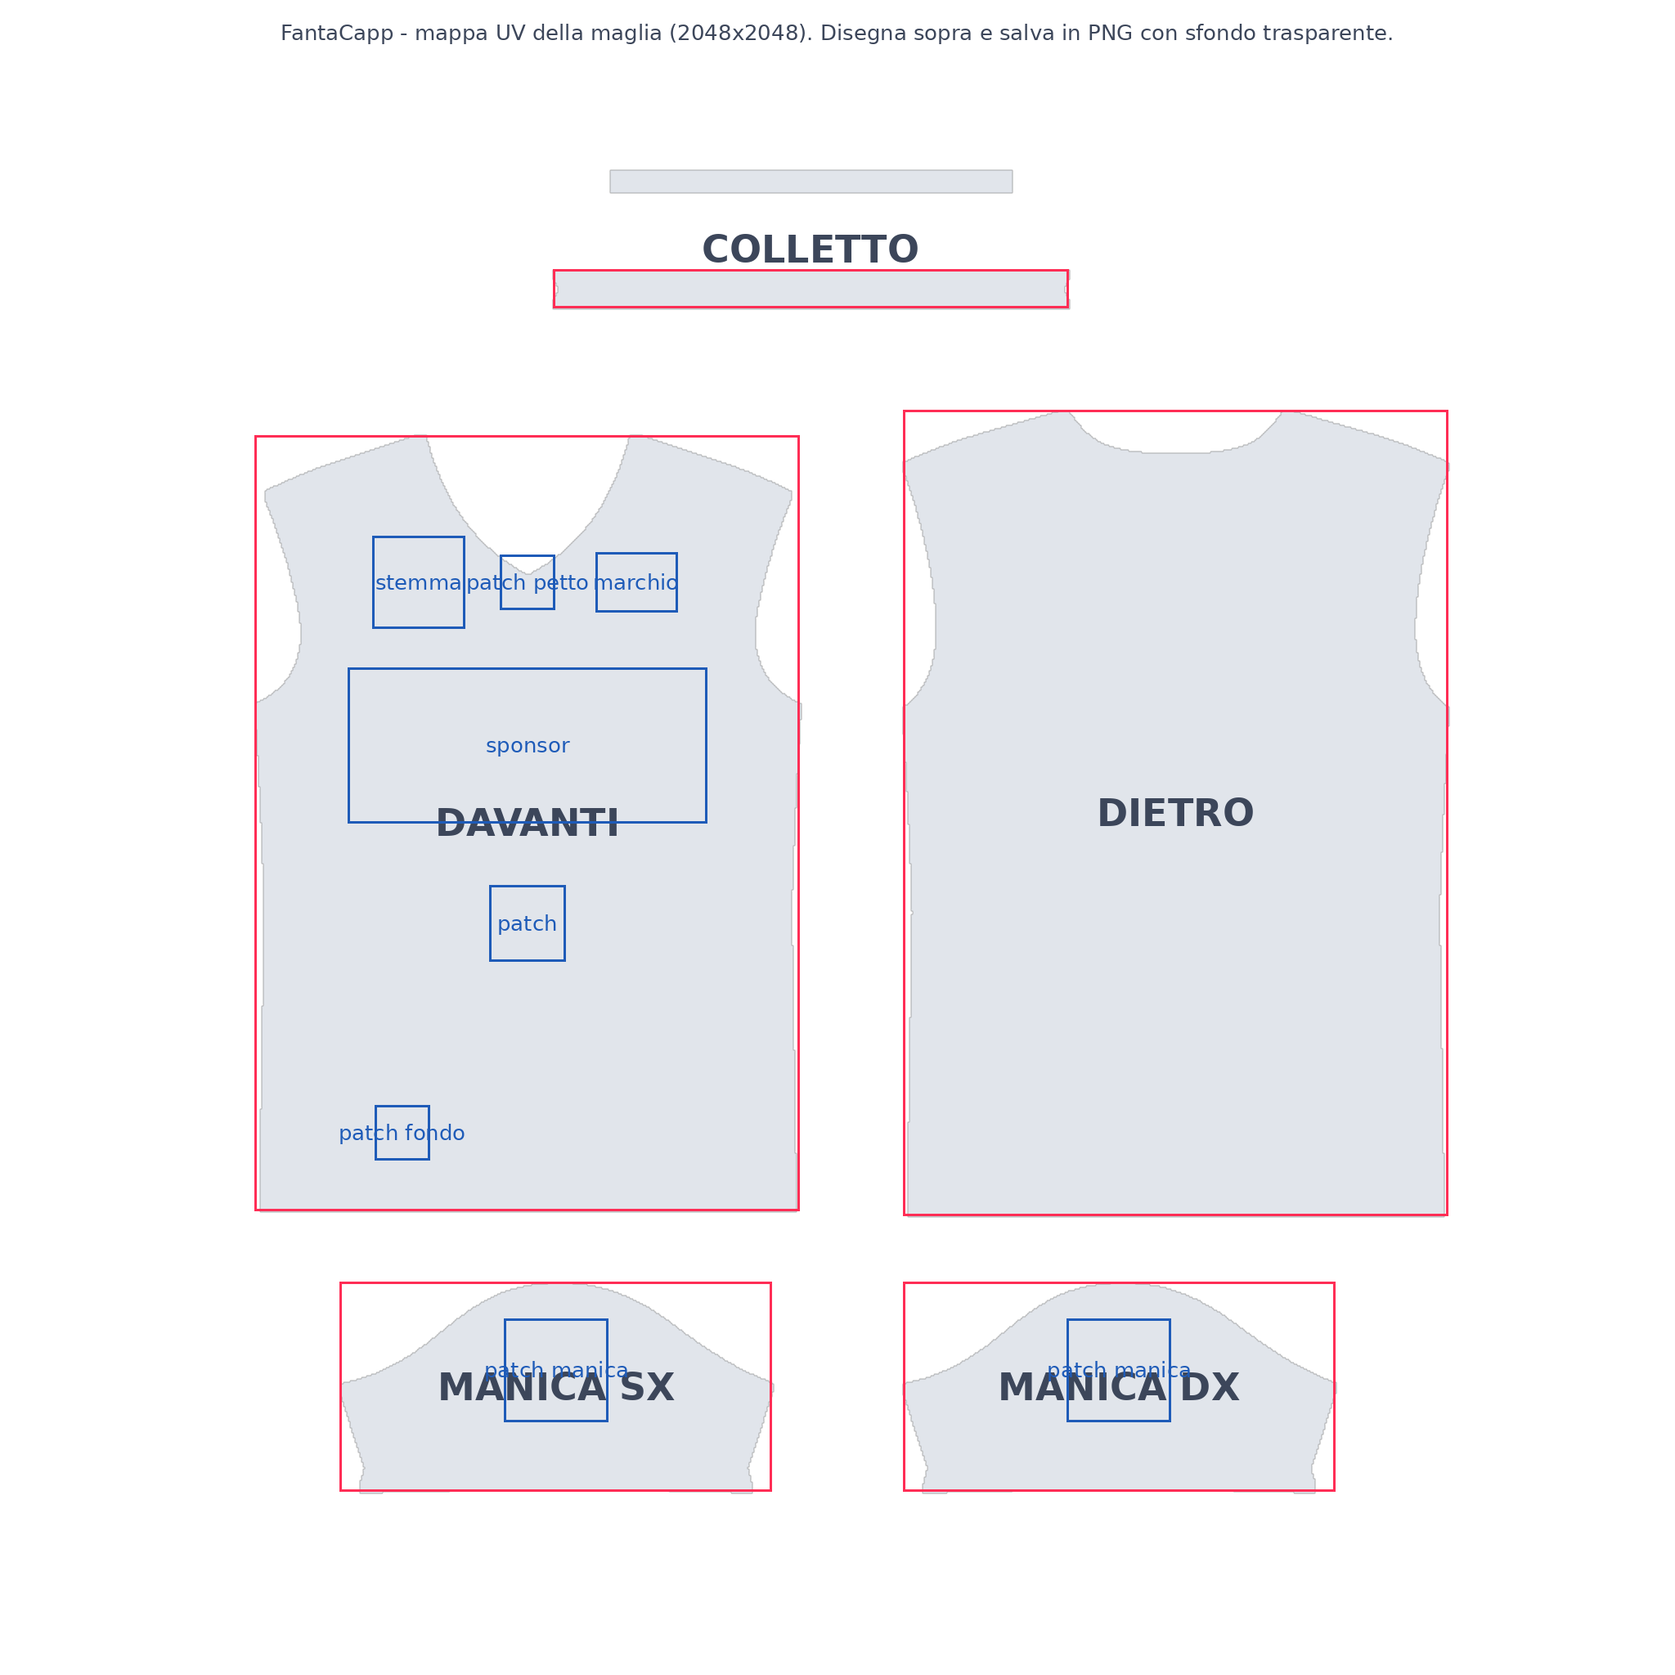
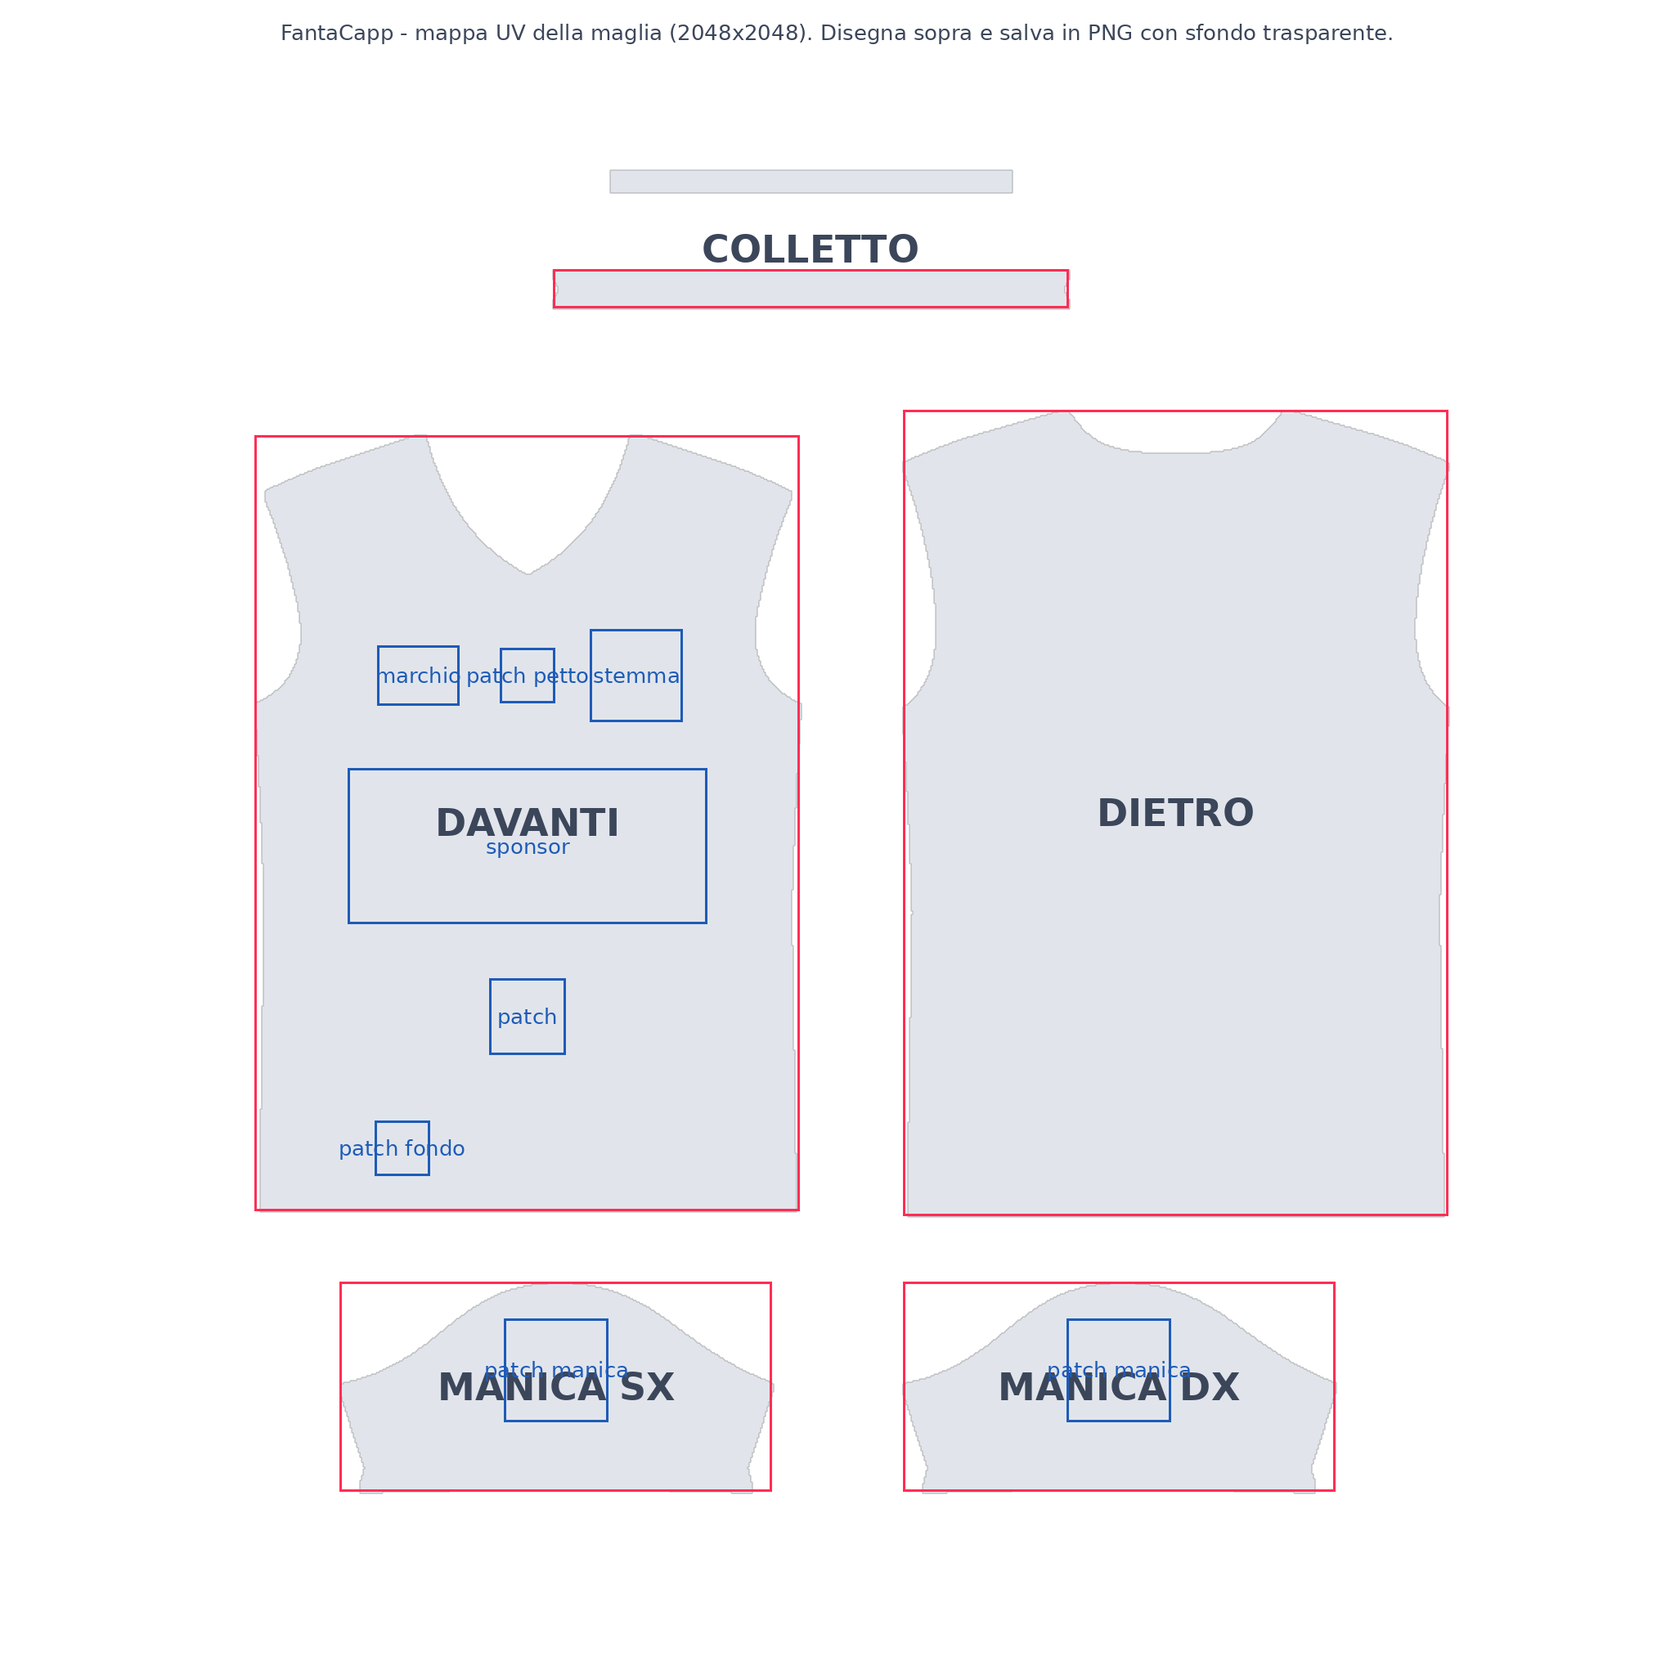
Divisa 3D: forme del colletto, loghi più in basso, marchio e stemma invertiti
- Nuovo components/kitShapes.js: forme del colletto ottenute deformando la
  geometria del modello vicino al collo (scollo a V, V profondo, girocollo,
  girocollo ampio, serafino con abbottonatura, coreana, collo alto con la
  fascia del colletto allungata). Una variante del modello per forma, in cache.
- Editor: FASE 1 con 'Forma del colletto' (miniature 3D) e 'Rifinitura del
  colletto'. Nuove divise con girocollo; quelle salvate prima restano a V
  (i colletti del primo editor sono convertiti nella forma più vicina).
- Stemma, marchio tecnico, sponsor e patch spostati più in basso sul petto;
  marchio tecnico a sinistra e stemma a destra guardando la maglia.
- Modello UV del Patron aggiornato con le nuove posizioni; inquadratura con
  più margine per i colli alti.

Claude-Session: https://claude.ai/code/session_018vuC1pFgCaehzZuDJwNqrk

diff --git a/js/components/Kit3D.js b/js/components/Kit3D.js
@@ -1,4 +1,5 @@
-import { paintKitTexture, KIT3D_FILES } from './KitRenderer.js';
+import { paintKitTexture, normalizeKit, KIT3D_FILES } from './KitRenderer.js';
+import { deformPoint, isDeformed } from './kitShapes.js';
 
 /**
  * Maglia 3D (three.js, in vendor/three): il modello in icons/kit3d/shirt.glb viene "vestito"
@@ -34,6 +35,49 @@ function loadModel() {
   return modelJob;
 }
 
+/** Pezzo del modello a cui appartiene una mesh (nome del nodo glTF). */
+function partOf(o) {
+  const n = `${o.name}|${o.parent ? o.parent.name : ''}`;
+  if (/(^|\|)42(_|\||$)/.test(n)) return 'front';
+  if (/Pattern2D_3805002/.test(n)) return 'collar';
+  return '';
+}
+
+/** Modello con la forma di colletto richiesta (geometria deformata, una volta per forma). */
+const variants = new Map();
+function loadVariant(shape) {
+  const key = isDeformed(shape) ? shape : 'v';
+  if (!variants.has(key)) {
+    variants.set(key, Promise.all([loadLib(), loadModel()]).then(([L, base]) => {
+      if (key === 'v') return base;
+      const { THREE } = L;
+      const model = base.clone(true);
+      model.updateMatrixWorld(true);
+      const v = new THREE.Vector3(), inv = new THREE.Matrix4();
+      model.traverse(o => {
+        if (!o.isMesh) return;
+        const part = partOf(o);
+        if (!part) return;
+        const g = o.geometry.clone();
+        const src = g.getAttribute('position');
+        const out = new Float32Array(src.count * 3);
+        inv.copy(o.matrixWorld).invert();
+        for (let i = 0; i < src.count; i++) {
+          v.fromBufferAttribute(src, i).applyMatrix4(o.matrixWorld);
+          const p = deformPoint(key, part, [v.x, v.y, v.z]);
+          v.set(p[0], p[1], p[2]).applyMatrix4(inv);
+          out[i * 3] = v.x; out[i * 3 + 1] = v.y; out[i * 3 + 2] = v.z;
+        }
+        g.setAttribute('position', new THREE.BufferAttribute(out, 3));
+        g.computeBoundingBox(); g.computeBoundingSphere();
+        o.geometry = g;
+      });
+      return model;
+    }));
+  }
+  return variants.get(key);
+}
+
 class Stage {
   constructor(L, model, canvas, { interactive = false, width = 600, height = 640 } = {}) {
     const { THREE } = L;
@@ -53,25 +97,17 @@ class Stage {
     key.position.set(2.5, 3, 2);
     this.scene.add(key);
 
-    // copia del modello con materiali propri (la texture cambia per ogni maglia)
-    this.model = model.clone(true);
     this.texture = new THREE.CanvasTexture(document.createElement('canvas'));
     this.texture.flipY = false;
     this.texture.colorSpace = THREE.SRGBColorSpace;
     this.texture.anisotropy = this.renderer.capabilities.getMaxAnisotropy();
-    this.model.traverse(o => {
-      if (!o.isMesh) return;
-      o.material = o.material.clone();
-      o.material.metalness = 0;
-      if (o.material.name === 'shirt_outer') { o.material.map = this.texture; o.material.needsUpdate = true; }
-    });
-    this.scene.add(this.model);
+    this.setModel(model);
 
     const box = new THREE.Box3().setFromObject(this.model);
     this.center = box.getCenter(new THREE.Vector3());
     const size = box.getSize(new THREE.Vector3());
     this.camera = new THREE.PerspectiveCamera(22, width / height, 0.01, 50);
-    this.dist = Math.max(size.y, size.x * height / width) / 2 / Math.tan(THREE.MathUtils.degToRad(11)) * 1.06;
+    this.dist = Math.max(size.y, size.x * height / width) / 2 / Math.tan(THREE.MathUtils.degToRad(11)) * 1.13; // margine anche per i colli alti
     this.setView(0);
 
     if (interactive) {
@@ -84,6 +120,21 @@ class Stage {
       this.controls = c;
       this.setView(0); // i controlli appena creati puntano all'origine: riallineo sulla maglia
     }
+  }
+
+  /** Copia del modello (forma del colletto) con materiali propri: la texture cambia per ogni maglia. */
+  setModel(model) {
+    if (this.source === model) return;
+    if (this.model) this.scene.remove(this.model);
+    this.source = model;
+    this.model = model.clone(true);
+    this.model.traverse(o => {
+      if (!o.isMesh) return;
+      o.material = o.material.clone();
+      o.material.metalness = 0;
+      if (o.material.name === 'shirt_outer') { o.material.map = this.texture; o.material.needsUpdate = true; }
+    });
+    this.scene.add(this.model);
   }
 
   setView(yawDeg) {
@@ -143,8 +194,9 @@ export function createKitViewer(container) {
     ready,
     async update(kit, opts = {}) {
       const my = ++token;
-      const [st, tex] = await Promise.all([ready, paintKitTexture(kit, { ...opts, size: opts.size || 2048 })]);
+      const [st, tex, model] = await Promise.all([ready, paintKitTexture(kit, { ...opts, size: opts.size || 2048 }), loadVariant(normalizeKit(kit).collarShape)]);
       if (!st || disposed || my !== token) return;
+      st.setModel(model);
       st.setTexture(tex);
       st.render();
       requestAnimationFrame(() => { if (!disposed) st.render(); });
@@ -180,7 +232,11 @@ export function renderKitImage(kit, opts = {}) {
     const [L, model] = await Promise.all([loadLib(), loadModel()]);
     if (!shot) shot = new Stage(L, model, document.createElement('canvas'), { width, height });
     shot.resize(width, height);
-    const tex = await paintKitTexture(kit, { crestUrl: opts.crestUrl, size: opts.textureSize || 2048, plain: opts.plain });
+    const [tex, variant] = await Promise.all([
+      paintKitTexture(kit, { crestUrl: opts.crestUrl, size: opts.textureSize || 2048, plain: opts.plain }),
+      loadVariant(normalizeKit(kit).collarShape)
+    ]);
+    shot.setModel(variant);
     shot.setTexture(tex);
     shot.setView(opts.view === 'back' ? 180 : 0);
     shot.render();

diff --git a/js/components/KitRenderer.js b/js/components/KitRenderer.js
@@ -1,11 +1,15 @@
 import { getPngPatterns, getPngBrands } from '../services/kitAssets.js';
 import { getCutout } from '../services/imageCutout.js';
+import { COLLAR_SHAPES } from './kitShapes.js';
+
+export { COLLAR_SHAPES };
 
 /**
  * Divisa della squadra: dati e pittura della texture UV della maglia 3D (vedi components/Kit3D.js).
  * La divisa è salvata in teams/{id}/kit:
  * {
- *   collar, cuffs, sleeveDeco,                              // stile di colletto, polsini, decorazioni maniche
+ *   collarShape,                                            // forma del colletto (geometria 3D, vedi kitShapes.js)
+ *   collar, cuffs, sleeveDeco,                              // rifinitura del colletto, polsini, decorazioni maniche
  *   colors: { base, sleeves, collar, cuffs, trim },
  *   layers: [{ type, color, opacity, scale, flipX, flipY, zone }],  // type: disegno integrato o 'png:<id>'; zone: body | all | sleeves
  *   brand: { id, color, url, mono },                        // id: marchio integrato, 'png:<id>' (dal Patron) o 'custom'
@@ -172,7 +176,7 @@ export const SLEEVE_DECO = [
 
 export function defaultKit() {
   return {
-    collar: 'plain', cuffs: 'band', sleeveDeco: 'none',
+    collarShape: 'crew', collar: 'plain', cuffs: 'band', sleeveDeco: 'none',
     colors: { base: '#1e5bb8', sleeves: '#1e5bb8', collar: '#ffffff', cuffs: '#ffffff', trim: '#ffffff' },
     layers: [],
     brand: { id: 'nike', color: '#ffffff', url: '', mono: false },
@@ -182,12 +186,17 @@ export function defaultKit() {
   };
 }
 
+// colletti del primo editor (disegno SVG) → forma 3D più vicina
+const OLD_COLLARS = { crew: 'crew', doublecrew: 'crew', v: 'v', wrap: 'v', laces: 'v', deepv: 'deepv', polo: 'henley', polobtn: 'henley', henley: 'henley', mandarin: 'mandarin' };
+
 /** Completa una divisa letta dal DB (anche dei formati precedenti) con i valori mancanti. */
 export function normalizeKit(raw) {
   const d = defaultKit();
   const k = raw && typeof raw === 'object' ? raw : {};
   const toArr = (v) => Array.isArray(v) ? v.filter(Boolean) : (v && typeof v === 'object' ? Object.values(v).filter(Boolean) : []);
   return {
+    // le divise salvate prima delle forme del colletto avevano lo scollo a V
+    collarShape: COLLAR_SHAPES.some(c => c.id === k.collarShape) ? k.collarShape : (OLD_COLLARS[k.collar] || (k.collar ? 'v' : d.collarShape)),
     collar: COLLARS.some(c => c.id === k.collar) ? k.collar : d.collar,
     cuffs: CUFFS.some(c => c.id === k.cuffs) ? k.cuffs : d.cuffs,
     sleeveDeco: SLEEVE_DECO.some(c => c.id === k.sleeveDeco) ? k.sleeveDeco : d.sleeveDeco,
@@ -221,14 +230,15 @@ export const UV = {
   collar:  { x: .3301, y: .1611, w: .3076, h: .0225 }
 };
 
-// Posizioni sul pezzo (0..1 nel riquadro del pezzo): s = lato rispetto alla larghezza del pezzo
+// Posizioni sul pezzo (0..1 nel riquadro del pezzo): s = lato rispetto alla larghezza del pezzo.
+// Guardando la maglia: marchio tecnico in alto a sinistra, stemma della squadra in alto a destra (sul cuore).
 export const ANCHORS = {
-  crest:   { part: 'front', x: .30, y: .19, s: .17 },
-  brand:   { part: 'front', x: .70, y: .19, s: .15 },
-  sponsor: { part: 'front', x: .50, y: .40, w: .66, h: .20 },
-  chest:   { part: 'front', x: .50, y: .19, s: .10 },
-  belly:   { part: 'front', x: .50, y: .63, s: .14 },
-  hem:     { part: 'front', x: .27, y: .90, s: .10 },
+  crest:   { part: 'front', x: .70, y: .31, s: .17 },
+  brand:   { part: 'front', x: .30, y: .31, s: .15 },
+  sponsor: { part: 'front', x: .50, y: .53, w: .66, h: .20 },
+  chest:   { part: 'front', x: .50, y: .31, s: .10 },
+  belly:   { part: 'front', x: .50, y: .75, s: .14 },
+  hem:     { part: 'front', x: .27, y: .92, s: .10 },
   sleeveL: { part: 'sleeveL', x: .50, y: .42, s: .24 },
   sleeveR: { part: 'sleeveR', x: .50, y: .42, s: .24 }
 };
@@ -480,6 +490,21 @@ export async function paintKitTexture(rawKit, opts = {}) {
       pts.forEach(([u, v], i) => (i ? x.lineTo(u * S, v * S + lw / 2) : x.moveTo(u * S, v * S + lw / 2)));
       x.stroke();
     }));
+  }
+
+  // abbottonatura del serafino: listino sotto lo scollo con tre bottoni
+  if (k.collarShape === 'henley' && mask && mask.neck.front && mask.neck.front.length) {
+    const tip = mask.neck.front.reduce((a, b) => (b[1] > a[1] ? b : a));
+    const r = R('front');
+    const cx = r.x + r.w / 2, top = tip[1] * S, len = r.h * .17, w = r.w * .07;
+    inPart('front', (x) => {
+      x.fillStyle = safeColor(c.collar); x.fillRect(cx - w / 2, top - S * .01, w, len);
+      x.fillStyle = 'rgba(0,0,0,.18)'; x.fillRect(cx - w / 2, top - S * .01, S * .0015, len); x.fillRect(cx + w / 2 - S * .0015, top - S * .01, S * .0015, len);
+      for (let i = 0; i < 3; i++) {
+        x.fillStyle = safeColor(c.trim);
+        x.beginPath(); x.arc(cx, top + len * (.28 + i * .27), w * .2, 0, Math.PI * 2); x.fill();
+      }
+    });
   }
 
   // 5. loghi, sponsor e patch sul davanti / maniche

diff --git a/js/components/kitShapes.js b/js/components/kitShapes.js
@@ -1,0 +1,92 @@
+/**
+ * Forme del colletto per la maglia 3D. Il modello ha lo scollo a V: le altre forme si ottengono
+ * deformando la geometria vicino al collo (davanti) e, per i colli alti, allungando la fascia del colletto.
+ * Misure in metri, coordinate del modello (y in alto, z verso chi guarda, collo centrato in x = 0).
+ */
+export const COLLAR_SHAPES = [
+  { id: 'v',        label: 'Scollo a V' },
+  { id: 'deepv',    label: 'V profondo' },
+  { id: 'crew',     label: 'Girocollo' },
+  { id: 'scoop',    label: 'Girocollo ampio' },
+  { id: 'henley',   label: 'Serafino' },
+  { id: 'mandarin', label: 'Coreana' },
+  { id: 'high',     label: 'Collo alto' }
+];
+
+const NECK_X = 0.09;        // mezza larghezza del collo
+const NECK_SIDE_Y = 1.578;  // altezza del bordo del colletto ai lati del collo
+// bordo inferiore del colletto (attaccatura) sul davanti del modello originale, per |x|
+const V_EDGE = [[0, 1.518], [0.015, 1.522], [0.03, 1.529], [0.045, 1.536], [0.06, 1.547], [0.075, 1.559], [0.09, 1.578]];
+// attaccatura del colletto dietro, per |x|
+const BACK_EDGE = [[0, 1.602], [0.045, 1.604], [0.06, 1.606], [0.075, 1.59], [0.09, 1.58]];
+const FALLOFF = 0.09;       // quanto in basso arriva la deformazione sul petto
+
+function interp(tbl, ax) {
+  if (ax <= tbl[0][0]) return tbl[0][1];
+  for (let i = 1; i < tbl.length; i++) {
+    if (ax <= tbl[i][0]) {
+      const [x0, y0] = tbl[i - 1], [x1, y1] = tbl[i];
+      return y0 + (y1 - y0) * (ax - x0) / (x1 - x0);
+    }
+  }
+  return tbl[tbl.length - 1][1];
+}
+
+const round = (depth) => (x) => NECK_SIDE_Y - depth * Math.sqrt(Math.max(0, 1 - (x / NECK_X) ** 2));
+const SHAPES = {
+  deepv:    { neck: (x) => NECK_SIDE_Y - 0.10 * (1 - Math.min(1, Math.abs(x) / NECK_X)) },
+  crew:     { neck: round(0.022) },
+  scoop:    { neck: round(0.042) },
+  henley:   { neck: round(0.022) },
+  mandarin: { neck: round(0.02), band: 2.1 },
+  high:     { neck: round(0.016), band: 3.2 }
+};
+
+/** true se la forma richiede di modificare la geometria. */
+export const isDeformed = (shape) => !!SHAPES[shape];
+
+const smooth = (t) => t <= 0 ? 0 : t >= 1 ? 1 : t * t * (3 - 2 * t);
+
+/**
+ * Deforma un punto (coordinate del modello) del pezzo indicato: 'front' (davanti) o 'collar' (fascia del colletto).
+ * p = [x, y, z], modificato e restituito.
+ */
+export function deformPoint(shape, part, p) {
+  const s = SHAPES[shape];
+  if (!s) return p;
+  const [x, y, z] = p;
+  const ax = Math.abs(x);
+  if (ax >= NECK_X) return p;
+  const edge = interp(V_EDGE, ax);
+  const dy = s.neck(x) - edge;            // di quanto si sposta l'attaccatura del colletto davanti
+  if (part === 'front') {
+    if (z <= 0) return p;
+    const w = smooth(1 - (edge - y) / FALLOFF);
+    if (w <= 0) return p;
+    p[1] = y + dy * w;
+    p[2] = z - 0.45 * dy * w;             // salendo il petto rientra verso il collo
+    return p;
+  }
+  if (part === 'collar') {
+    let base;
+    if (z > 0) {
+      p[1] = y + dy; p[2] = z - 0.45 * dy;
+      base = s.neck(x);
+    } else {
+      base = interp(BACK_EDGE, ax);
+    }
+    if (s.band) {
+      // colletto più alto: allungo la fascia verso l'alto e la stringo un po' verso il collo
+      const h = p[1] - base;
+      if (h > 0) {
+        const nh = h * s.band;
+        p[1] = base + nh;
+        const t = Math.min(1, nh / 0.05);
+        p[0] *= 1 - 0.08 * t;
+        p[2] = -0.004 + (p[2] + 0.004) * (1 - 0.1 * t);
+      }
+    }
+    return p;
+  }
+  return p;
+}

diff --git a/js/menu/DivisaSquadra.js b/js/menu/DivisaSquadra.js
@@ -6,7 +6,7 @@ import { getPngPatterns, getPngBrands, onKitAssetsChange } from '../services/kit
 import { esc } from './menuUtils.js';
 import {
   normalizeKit, defaultKit, patternLabel,
-  PRESETS, PATTERNS, BRANDS, SPONSOR_FONTS, PATCH_POSITIONS, ZONES, COLLARS, CUFFS, SLEEVE_DECO
+  PRESETS, PATTERNS, BRANDS, SPONSOR_FONTS, PATCH_POSITIONS, ZONES, COLLARS, COLLAR_SHAPES, CUFFS, SLEEVE_DECO
 } from '../components/KitRenderer.js';
 
 /**
@@ -286,7 +286,9 @@ export const DivisaSquadra = {
     const k = this._kit;
     const base = { ...k, sponsor: { mode: 'none' }, patches: [], crest: { show: false } };
     return `
-      <div class="kit-sub">Colletto</div>
+      <div class="kit-sub">Forma del colletto</div>
+      <div class="kit-grid">${COLLAR_SHAPES.map(c => this._opt('collarShape', c.id, this._thumb({ ...base, collarShape: c.id }), c.label, k.collarShape === c.id)).join('')}</div>
+      <div class="kit-sub">Rifinitura del colletto</div>
       <div class="kit-grid">${COLLARS.map(c => this._opt('collar', c.id, this._thumb({ ...base, collar: c.id }), c.label, k.collar === c.id)).join('')}</div>
       <div class="kit-sub">Polsini</div>
       <div class="kit-grid">${CUFFS.map(c => this._opt('cuffs', c.id, this._thumb({ ...base, cuffs: c.id }), c.label, k.cuffs === c.id)).join('')}</div>
@@ -494,7 +496,7 @@ export const DivisaSquadra = {
       case 'view':
         if (this._viewer) this._viewer.setView(v);
         return;
-      case 'collar': case 'cuffs': case 'sleeveDeco':
+      case 'collarShape': case 'collar': case 'cuffs': case 'sleeveDeco':
         this._update(kit => { kit[act] = v; });
         return;
       case 'preset': {

diff --git a/sw.js b/sw.js
@@ -1,4 +1,4 @@
-const CACHE_NAME = 'fantacapp-pwa-alpha-v1.0.1.30'; // Incrementa ad ogni modifica dei file statici
+const CACHE_NAME = 'fantacapp-pwa-alpha-v1.0.1.31'; // Incrementa ad ogni modifica dei file statici
 const IMAGE_CACHE = 'fantacapp-images-v1'; // riempita da js/services/assetPreloader.js: non va cancellata agli aggiornamenti
 
 // 1. Array pulito e aggiornato
@@ -47,6 +47,7 @@ const ASSETS_TO_CACHE = [
   './js/components/MenuPanel.js',
   './js/components/PlayerCard.js',
   './js/components/Kit3D.js',
+  './js/components/kitShapes.js',
   './js/components/KitRenderer.js',
 
   // Pagine del menu laterale
